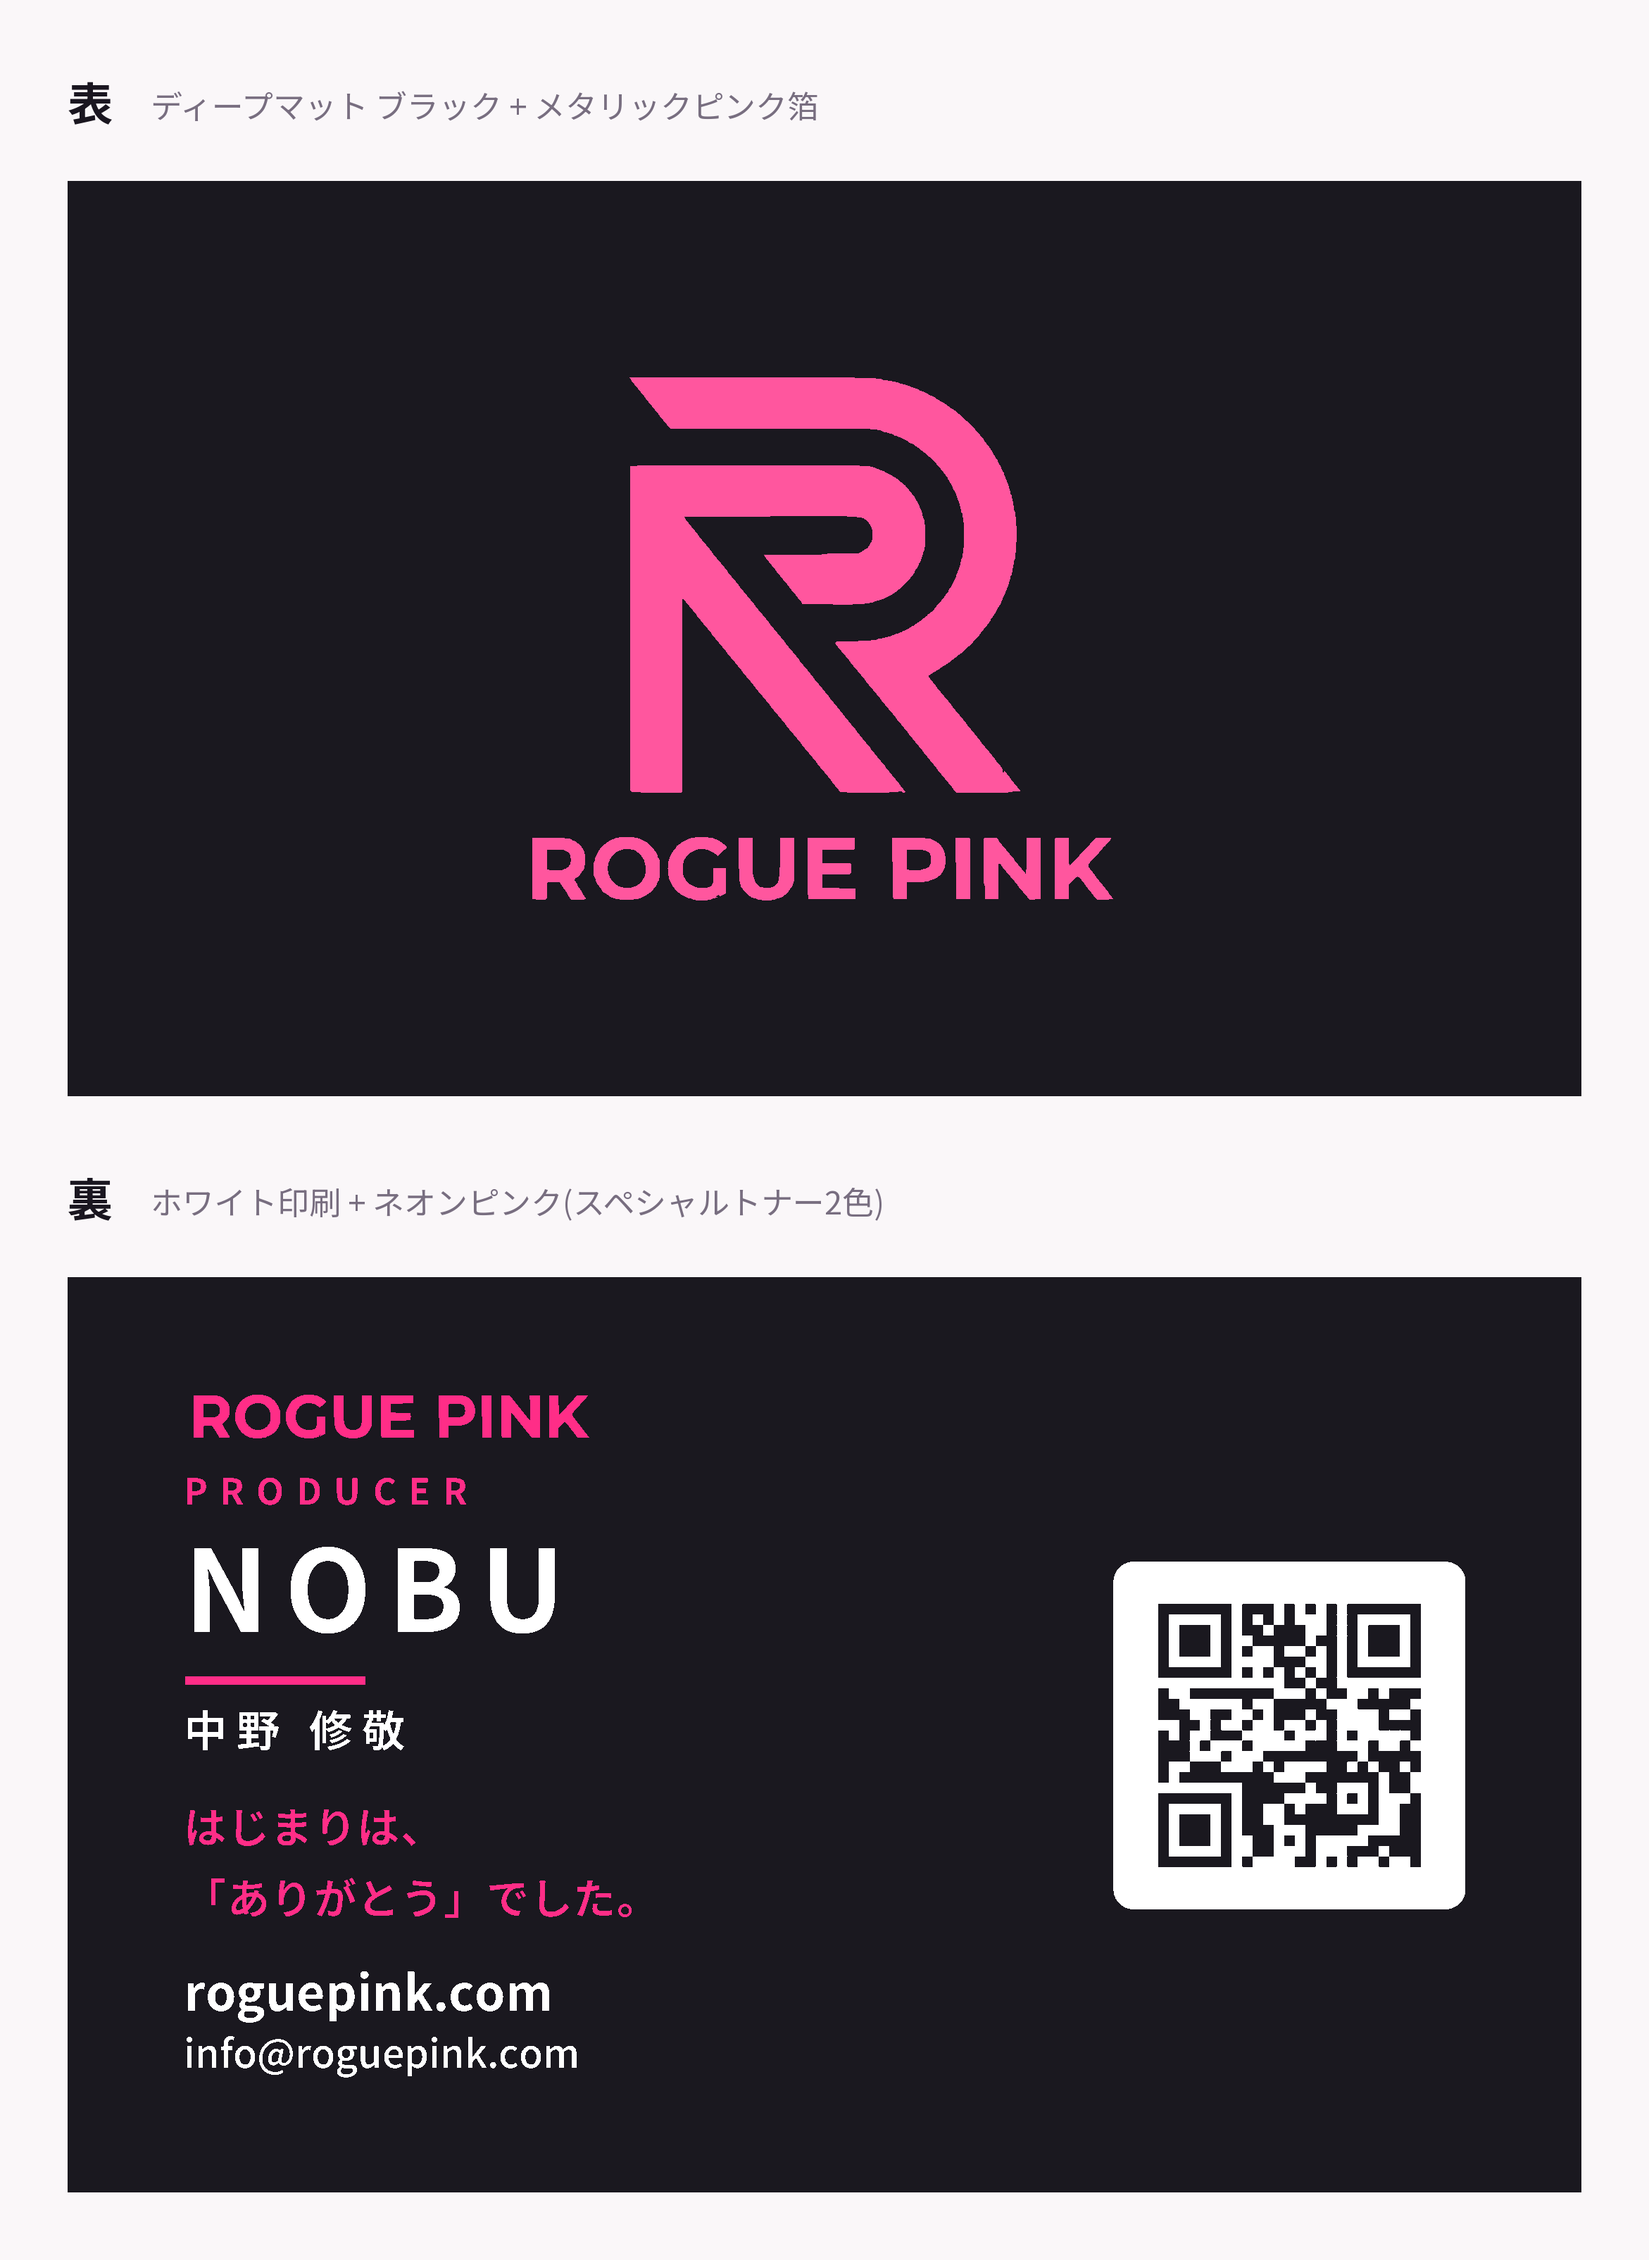
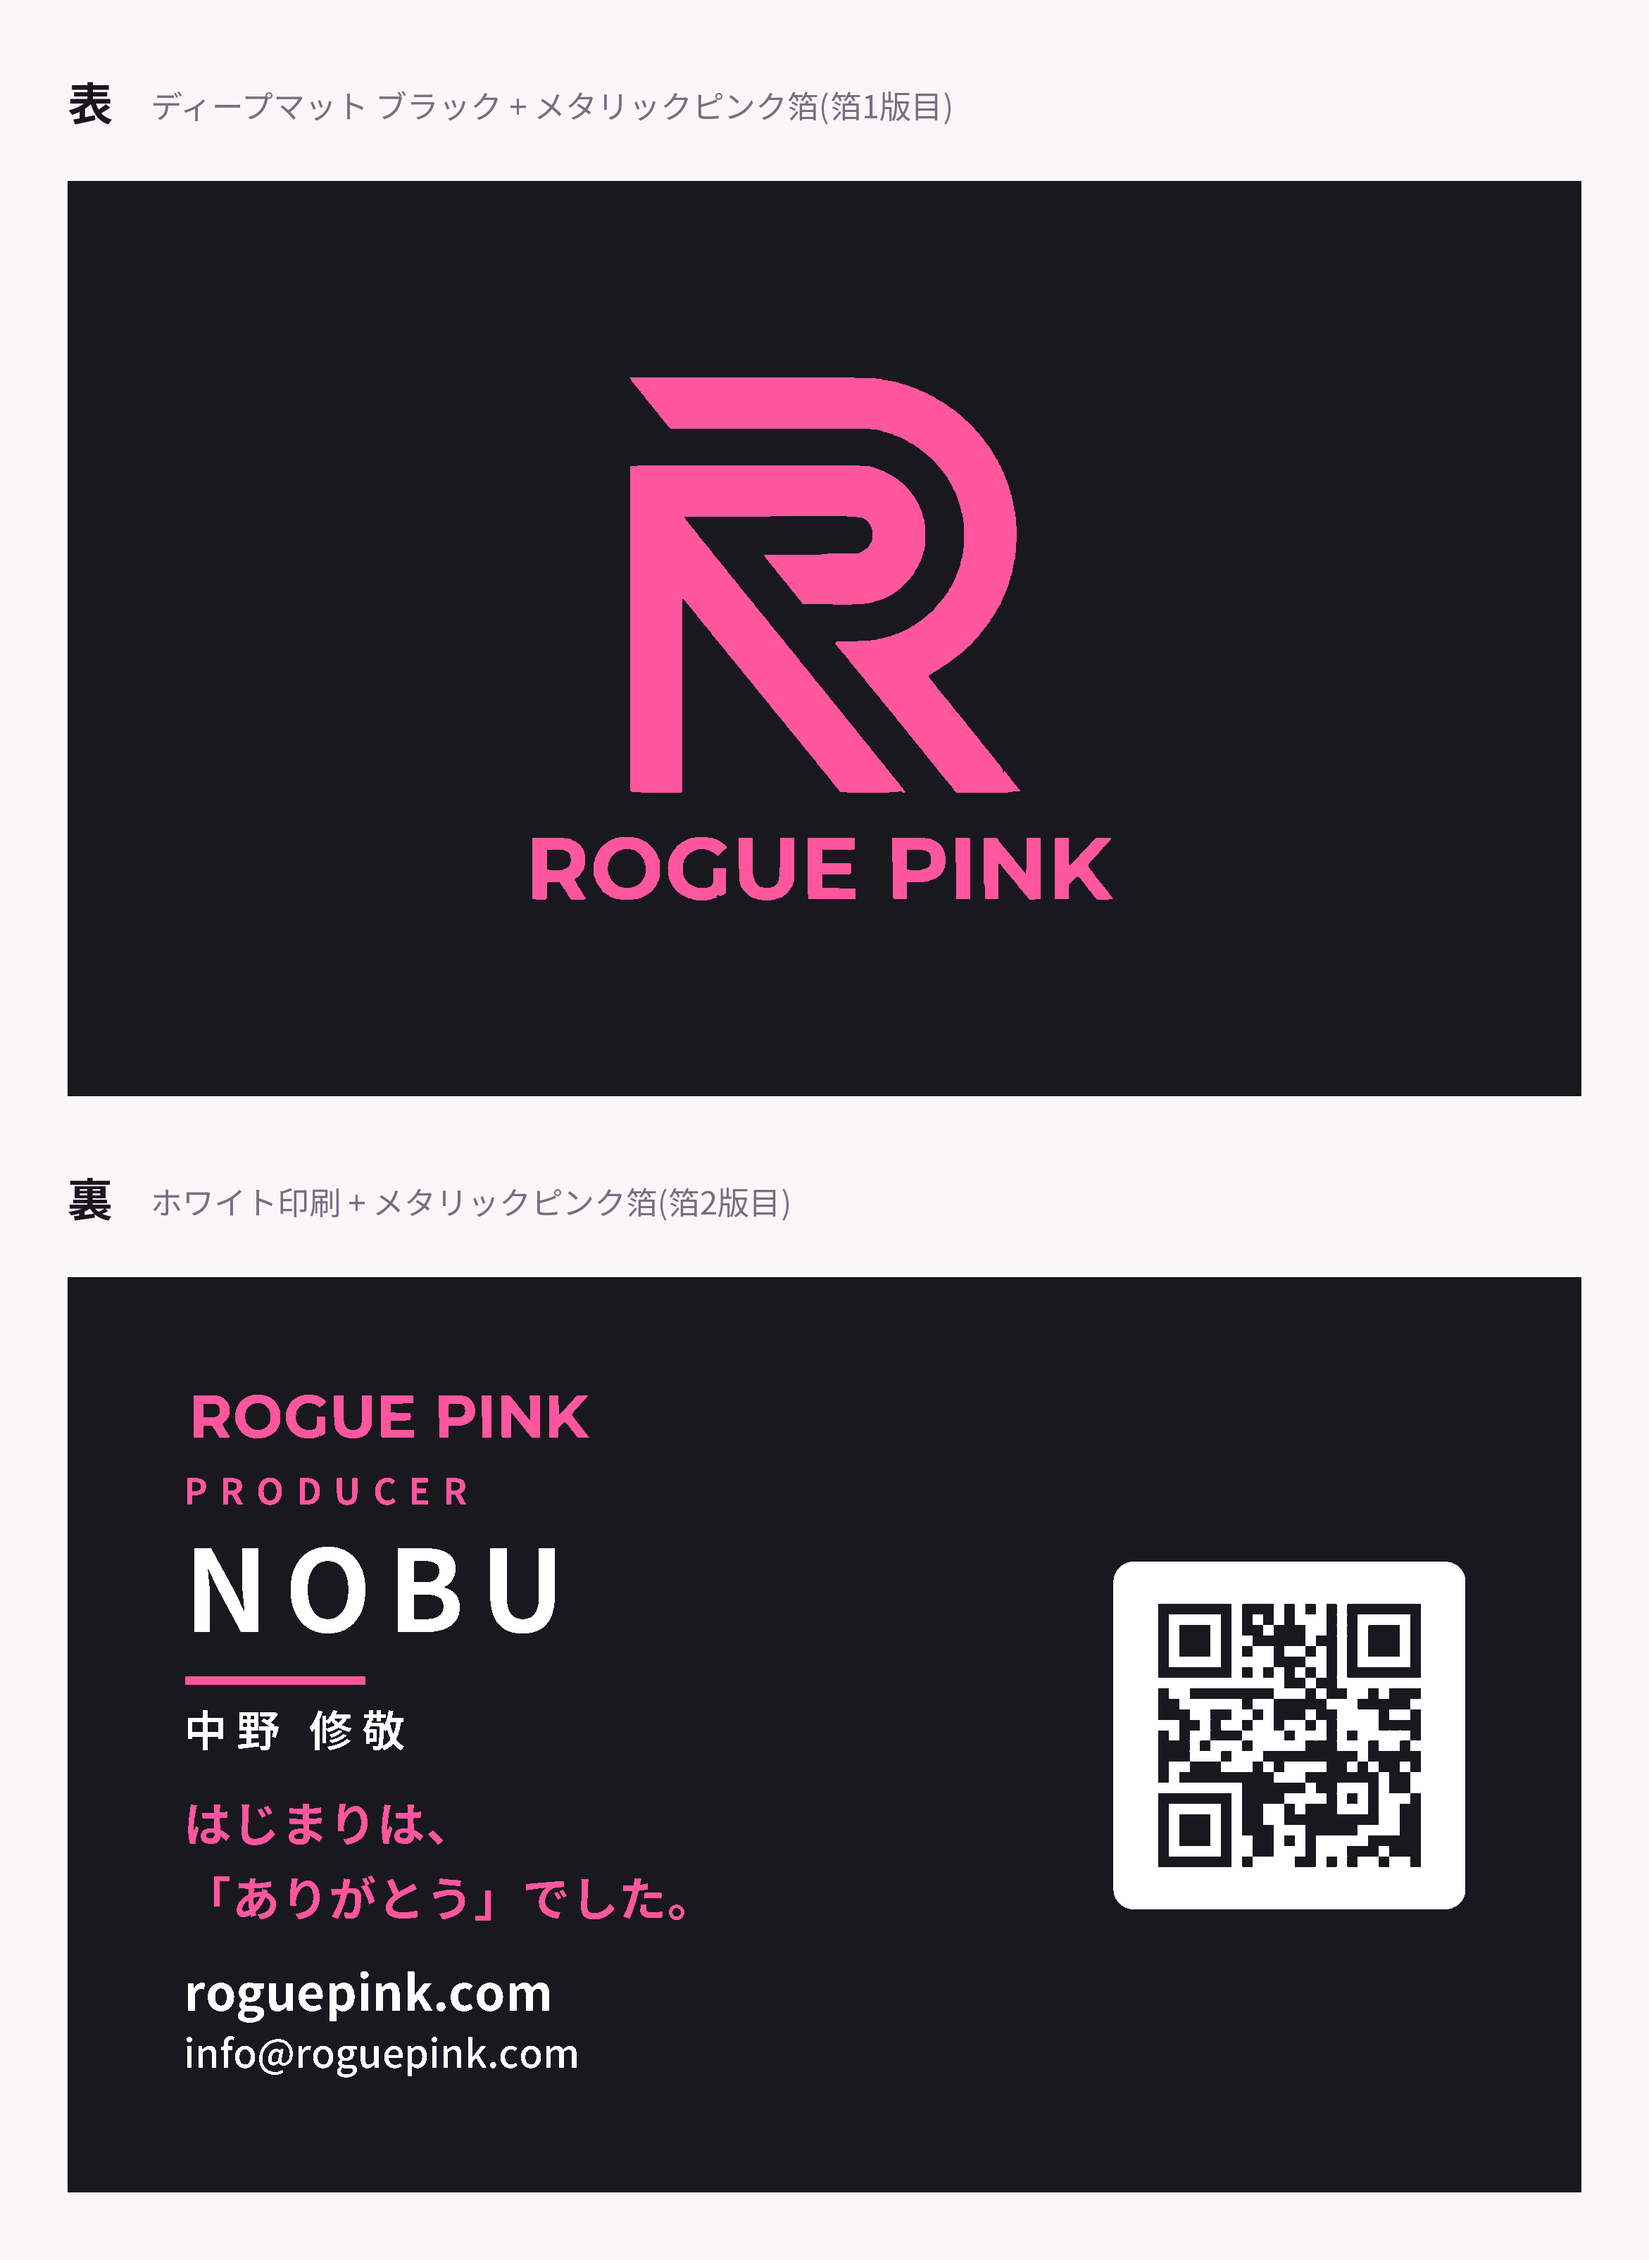
裏面のピンクを箔押しに切り替え、タグラインを箔の下限0.2mmに合わせて太らせた

diff --git a/scripts/build-card.py b/scripts/build-card.py
@@ -25,6 +25,17 @@ INK, PAPER = 0, 1                   # 黒=インクが乗る / 白=乗らない
 
 def mm(v): return v * MM
 
+# 裏面のピンクを「メタリックピンク箔」で押すか、「ネオンピンクのトナー」で刷るか。
+#
+# 箔は転写するかしないかの二択で、トナーのように薄く乗ることができない。
+# LEDA の下限 0.2mm を全文字で満たす必要があるため、タグラインだけ設定が変わる。
+#   トナー: 級数 2.55 / ウェイト 600 → 句点 0.165mm・濁点 0.185mm(下限未満だが薄く出る)
+#   箔:     級数 2.85 / ウェイト 700 → 句点 0.203mm・濁点 0.231mm(全文字が下限以上)
+FOIL_BACK = True
+
+_TAG = (2.85, 700) if FOIL_BACK else (2.55, 600)
+_TAG_Y = (33.95, 38.45) if FOIL_BACK else (34.04, 38.30)
+
 # --- 版ごとの中身。位置は仕上がり 91×55mm の左上から測った mm ---
 # LEDA の推奨(線は 0.2mm 以上)に合わせて、細かった日本語は太さと級数を上げてある
 TEXT = [
@@ -32,8 +43,8 @@ TEXT = [
     ("pink",  "PRODUCER",           7.0, 13.67, 2.15, 700, 0.34),
     ("white", "NOBU",               7.0, 21.34, 6.80, 700, 0.14),
     ("white", "中野 修敬",            7.0, 28.22, 2.60, 600, 0.22),
-    ("pink",  "はじまりは、",          7.0, 34.04, 2.55, 600, 0.02),
-    ("pink",  "「ありがとう」でした。",    7.0, 38.30, 2.55, 600, 0.02),
+    ("pink",  "はじまりは、",          7.0, _TAG_Y[0], _TAG[0], _TAG[1], 0.02),
+    ("pink",  "「ありがとう」でした。",    7.0, _TAG_Y[1], _TAG[0], _TAG[1], 0.02),
     ("white", "roguepink.com",      7.0, 44.10, 2.95, 700, 0.0),
     ("white", "info@roguepink.com", 7.0, 47.54, 2.35, 500, 0.0),
 ]
@@ -134,7 +145,8 @@ def preview(dpi=600):
         a = np.zeros((h, wd, 3), np.uint8); a[:, :] = PAPER
         for m, c in layers: a[m] = c
         return Image.fromarray(a)
-    back, front = compose((w, WHITE), (k, PINK)), compose((f, FOIL))
+    # 裏のピンクを箔にする決定なら、裏も表と同じ光り方で描く
+    back, front = compose((w, WHITE), (k, FOIL if FOIL_BACK else PINK)), compose((f, FOIL))
     back.save(out / "card-back.png"); front.save(out / "card-front.png")
 
     # 表裏を並べた1枚。どちらが何のインクかを書いておく(印刷所に見せる用)
@@ -151,8 +163,10 @@ def preview(dpi=600):
     sheet = Image.new("RGB", (wd + pad*2, pad + (h + lbl + pad)*2), BG)
     dr = ImageDraw.Draw(sheet)
     fb, fs = font(int(wd*0.030)), font_r(int(wd*0.021))
-    rows = ((front, "表", "ディープマット ブラック + メタリックピンク箔"),
-            (back,  "裏", "ホワイト印刷 + ネオンピンク(スペシャルトナー2色)"))
+    back_note = ("ホワイト印刷 + メタリックピンク箔(箔2版目)" if FOIL_BACK
+                 else "ホワイト印刷 + ネオンピンク(スペシャルトナー2色)")
+    rows = ((front, "表", "ディープマット ブラック + メタリックピンク箔(箔1版目)"),
+            (back,  "裏", back_note))
     for i, (img, t, note) in enumerate(rows):
         y = pad + i * (h + lbl + pad)
         dr.text((pad, y), t, font=fb, fill=INK2)
